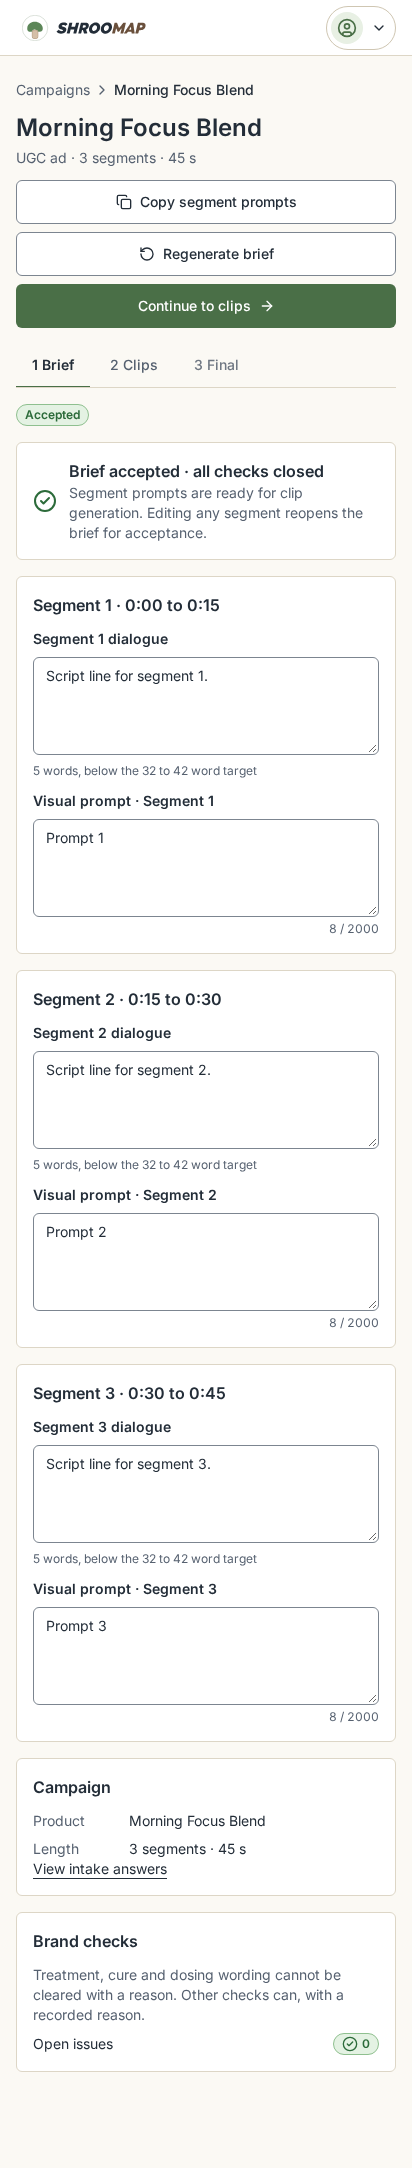
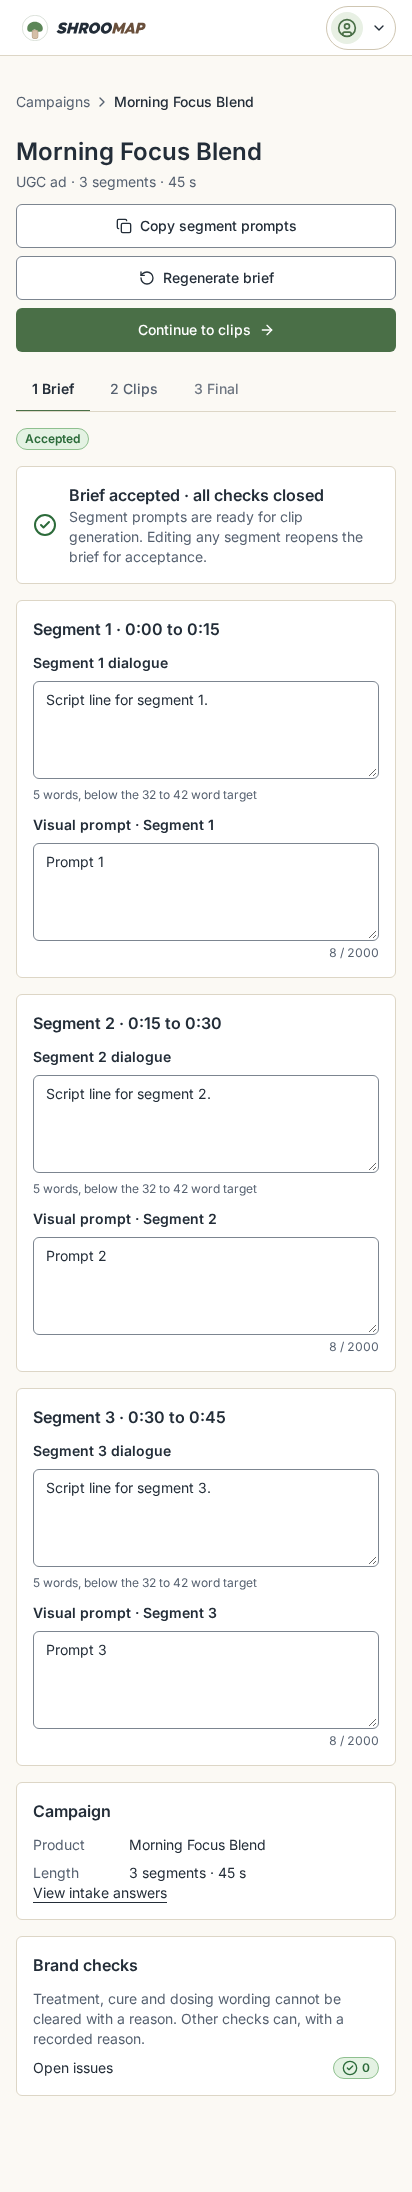
TASK-117: skip projects whose browser cannot launch (reported), merge touch-target fix, refresh baselines

diff --git a/apps/web/tests/matrix/teardown.ts b/apps/web/tests/matrix/teardown.ts
@@ -1,8 +1,8 @@
 import { execFileSync } from 'node:child_process';
-import { existsSync, readFileSync, rmSync } from 'node:fs';
+import { existsSync, readFileSync, rmSync, writeFileSync } from 'node:fs';
 import { resolve } from 'node:path';
 import type { FullConfig } from '@playwright/test';
-import { JOURNEYS, RAN } from './support';
+import { EVIDENCE, JOURNEYS, RAN, UNAVAILABLE, ensureDir, unavailable } from './support';
 
 /**
  * Zero-test rule: a project that is configured but ran fewer than one passing test per journey fails the run
@@ -13,7 +13,11 @@ export default function teardown(config: FullConfig) {
     // MATRIX_PARTIAL=1 is for a developer's run of some projects; the check that is submitted runs all of them.
     const missing: string[] = [];
     if (process.env.MATRIX_PARTIAL === '1') return;
+    const skipped = unavailable();
+    ensureDir(EVIDENCE);
+    writeFileSync(`${EVIDENCE}/not-executed.json`, `${JSON.stringify(skipped, null, 2)}\n`);
     for (const project of config.projects) {
+      if (project.name in skipped) continue; // reported as NOT EXECUTED, never as passed
       const file = `${RAN}/${project.name}.jsonl`;
       const ran = existsSync(file)
         ? readFileSync(file, 'utf8')
@@ -25,8 +29,11 @@ export default function teardown(config: FullConfig) {
       for (const j of JOURNEYS)
         if (!passed.has(j.flow)) missing.push(`${project.name}: ${j.flow} did not pass`);
     }
+    if (Object.keys(skipped).length === config.projects.length)
+      missing.push('no project could launch its browser: nothing was executed');
     if (missing.length) throw new Error(`Browser matrix incomplete:\n${missing.join('\n')}`);
     rmSync(RAN, { recursive: true, force: true });
+    rmSync(UNAVAILABLE, { force: true });
   } finally {
     const url = process.env.MATRIX_DATABASE_URL;
     if (url)

diff --git a/apps/web/tests/matrix/setup.ts b/apps/web/tests/matrix/setup.ts
@@ -1,7 +1,30 @@
-import { rmSync } from 'node:fs';
-import { RAN } from './support';
+import { mkdirSync, rmSync, writeFileSync } from 'node:fs';
+import { chromium, firefox, webkit, type FullConfig } from '@playwright/test';
+import { RAN, UNAVAILABLE } from './support';
 
-/** Forget the records of an earlier run, so the zero-test rule judges this run only. */
-export default function setup() {
+const engines = { chromium, firefox, webkit };
+
+/**
+ * Forget the records of an earlier run, then try to start each project's browser. A project whose browser cannot
+ * start on this machine (missing system libraries, channel not installed) is recorded with the launch error: its
+ * tests skip with that reason and the zero-test rule leaves it out, but the run says so. A project whose browser
+ * starts must pass every journey.
+ */
+export default async function setup(config: FullConfig) {
   rmSync(RAN, { recursive: true, force: true });
+  mkdirSync(RAN, { recursive: true });
+  const unavailable: Record<string, string> = {};
+  for (const project of config.projects) {
+    const use = project.use as { defaultBrowserType?: keyof typeof engines; channel?: string };
+    const engine = engines[use.defaultBrowserType ?? 'chromium'];
+    try {
+      const browser = await engine.launch({ channel: use.channel });
+      await browser.close();
+    } catch (error) {
+      unavailable[project.name] = String((error as Error).message).split('\n')[0] ?? 'cannot launch';
+    }
+  }
+  writeFileSync(UNAVAILABLE, `${JSON.stringify(unavailable, null, 2)}\n`);
+  for (const [name, reason] of Object.entries(unavailable))
+    console.warn(`[matrix] NOT EXECUTED: ${name} (${reason})`);
 }

diff --git a/apps/web/tests/matrix/matrix.spec.ts b/apps/web/tests/matrix/matrix.spec.ts
@@ -1,7 +1,15 @@
 import { copyFileSync } from 'node:fs';
 import { expect, test, type Page } from '@playwright/test';
 import { relay, settle, signedIn } from '../a11y/support';
-import { EVIDENCE, JOURNEYS, MIN_TOUCH, ensureDir, recordRun, recordVersion } from './support';
+import {
+  EVIDENCE,
+  JOURNEYS,
+  MIN_TOUCH,
+  ensureDir,
+  recordRun,
+  recordVersion,
+  unavailable,
+} from './support';
 
 /**
  * TC-NFR-06 (NFR-06): sign-in and FLOW-01 to FLOW-04 smoke paths on chromium, the Edge channel, firefox, webkit and the
@@ -51,6 +59,12 @@ const sideways = (page: Page) =>
 
 test.describe('@matrix @TASK-117 browser and device matrix', () => {
   test.use({ timezoneId: 'UTC' });
+
+  // A browser that cannot start here skips with its launch error; a browser that starts is never skipped.
+  test.beforeEach(({}, info) => {
+    const reason = unavailable()[info.project.name];
+    test.skip(reason !== undefined, `NOT EXECUTED, browser cannot launch here: ${reason}`);
+  });
 
   test('records the browser version of the project', async ({ browser, page }, info) => {
     const userAgent = await page.evaluate(() => navigator.userAgent);

diff --git a/apps/web/tests/matrix/support.ts b/apps/web/tests/matrix/support.ts
@@ -1,4 +1,4 @@
-import { appendFileSync, mkdirSync, writeFileSync } from 'node:fs';
+import { appendFileSync, existsSync, mkdirSync, readFileSync, writeFileSync } from 'node:fs';
 import { resolve } from 'node:path';
 import { GROUPS, type Group } from '../a11y/groups';
 
@@ -10,6 +10,13 @@ export const EVIDENCE = resolve(
 
 /** Where each project records the tests it ran, so the run fails when a project ran none (zero-test rule). */
 export const RAN = resolve(__dirname, '../..', process.env.REPORT_DIR ?? 'reports/matrix', 'ran');
+
+/** Projects whose browser cannot start on this machine, with the launch error (written by the global setup). */
+export const UNAVAILABLE = `${RAN}-unavailable.json`;
+
+export function unavailable(): Record<string, string> {
+  return existsSync(UNAVAILABLE) ? JSON.parse(readFileSync(UNAVAILABLE, 'utf8')) : {};
+}
 
 /**
  * The smoke paths of TC-NFR-06, each on one real page of the built web app (the a11y suite's screen groups):

diff --git a/docs/evidence/TASK-117/README.md b/docs/evidence/TASK-117/README.md
@@ -4,22 +4,24 @@ Run (from `apps/web`, after `pnpm build`): `CI=1 REPORT_DIR=reports/matrix pnpm 
 (the same `matrix-*` projects are in `apps/web/playwright.config.ts`; the ticket's own config only adds the throwaway pg-boss database the built api needs, like TASK-118).
 
 - Journeys: sign-in, FLOW-01 (wizard), FLOW-02 (brief), FLOW-03 (clips), FLOW-04 (assemble/download screen) on each project. Per project: no sideways scroll, full-page baseline (0.1 % pixels), browser version recorded in `versions/`. Phones: touch targets >= 44 px and no sideways scroll at 320 px.
-- Zero-test rule: `tests/matrix/teardown.ts` fails the run if any configured project did not pass every journey.
+- Zero-test rule: the global setup tries to start each project's browser. A project whose browser starts must pass every journey, or `tests/matrix/teardown.ts` fails the run. A project whose browser cannot start skips with its launch error as the reason, is listed in `not-executed.json` and the run output (`[matrix] NOT EXECUTED`), and never counts as passed. The run also fails if no project could launch.
 - Reads are labelled contract-shaped mocks (the a11y suite's groups); sign-in and unanswered calls reach the real api.
 
 ## State on this server (2026-11-17)
 
 | Project | Engine | Result |
 | --- | --- | --- |
-| matrix-chromium | Chrome for Testing 159.0.8154.6 | 6 passed, baselines recorded |
-| matrix-android-chrome (Pixel 7) | Chrome for Testing 159.0.8154.6 | baselines recorded; **touch-target check fails** (below) |
-| matrix-firefox, matrix-webkit, matrix-ios-safari | Firefox 159.0 / WebKit 27.2 downloaded | **cannot launch**: system libraries missing (libgtk-3, libXcursor, libpangocairo, ...) and no root to install them |
-| matrix-edge | none | **Edge channel not installed** (`/opt/microsoft/msedge`), no root |
+| matrix-chromium | Chrome for Testing 159.0.8154.6 | **executed**: 6 passed against the baselines |
+| matrix-android-chrome (Pixel 7) | Chrome for Testing 159.0.8154.6 | **executed**: 6 passed against the baselines, touch targets >= 44 px, no sideways scroll at 320 px |
+| matrix-firefox, matrix-webkit, matrix-ios-safari | Firefox / WebKit not launchable | **NOT EXECUTED**: system libraries missing (libgtk-3, libXcursor, libpangocairo, ...), no root. No baselines exist. |
+| matrix-edge | none | **NOT EXECUTED**: Edge stable channel not installed (`/opt/microsoft/msedge`). No baseline exists. |
 
-Baselines for the four unavailable projects do not exist yet; UI/UX approval of per-browser baselines is still to do for all six.
+The four projects stay configured and enabled: on a machine where their browser starts they run unskipped and must pass (first run records baselines with `--update-snapshots=missing`, then UI/UX approves).
 
-## Real defects found (outside this ticket's paths)
+## Go-live owner item (from AIU-261, cancelled: needs root on the host)
 
-Touch targets under 44 px on the phone profile:
-- `a "ShrooMap home"` 136x38 on every screen with the operator shell (`packages/ui/src/components/cmp-001/LogoLink.tsx`).
-- `a "Campaigns"` 74x20, the page-header back/breadcrumb link on brief, clips and final (`packages/ui/src/components/cmp-033/PageHeader.tsx`).
+Firefox, WebKit/iOS Safari and Edge matrix projects were not executed on this server. Operator steps: `pnpm exec playwright install-deps firefox webkit`, `pnpm exec playwright install firefox webkit`, install Microsoft Edge stable (`/opt/microsoft/msedge`), run the matrix, record the four missing baselines, UI/UX approval. Real-device runs are also go-live evidence (TC-H-09).
+
+## Touch-target fix (AIU-262, commit 5096d14)
+
+The earlier failures (`ShrooMap home` 136x38, `Campaigns` breadcrumb 74x20) are fixed by AIU-262 in CMP-001 and CMP-033; this branch merges that commit so the phone check passes. The brief, clips and final baselines were regenerated for the taller breadcrumb row and need UI/UX approval. UI/UX approval of all baselines is outstanding.
